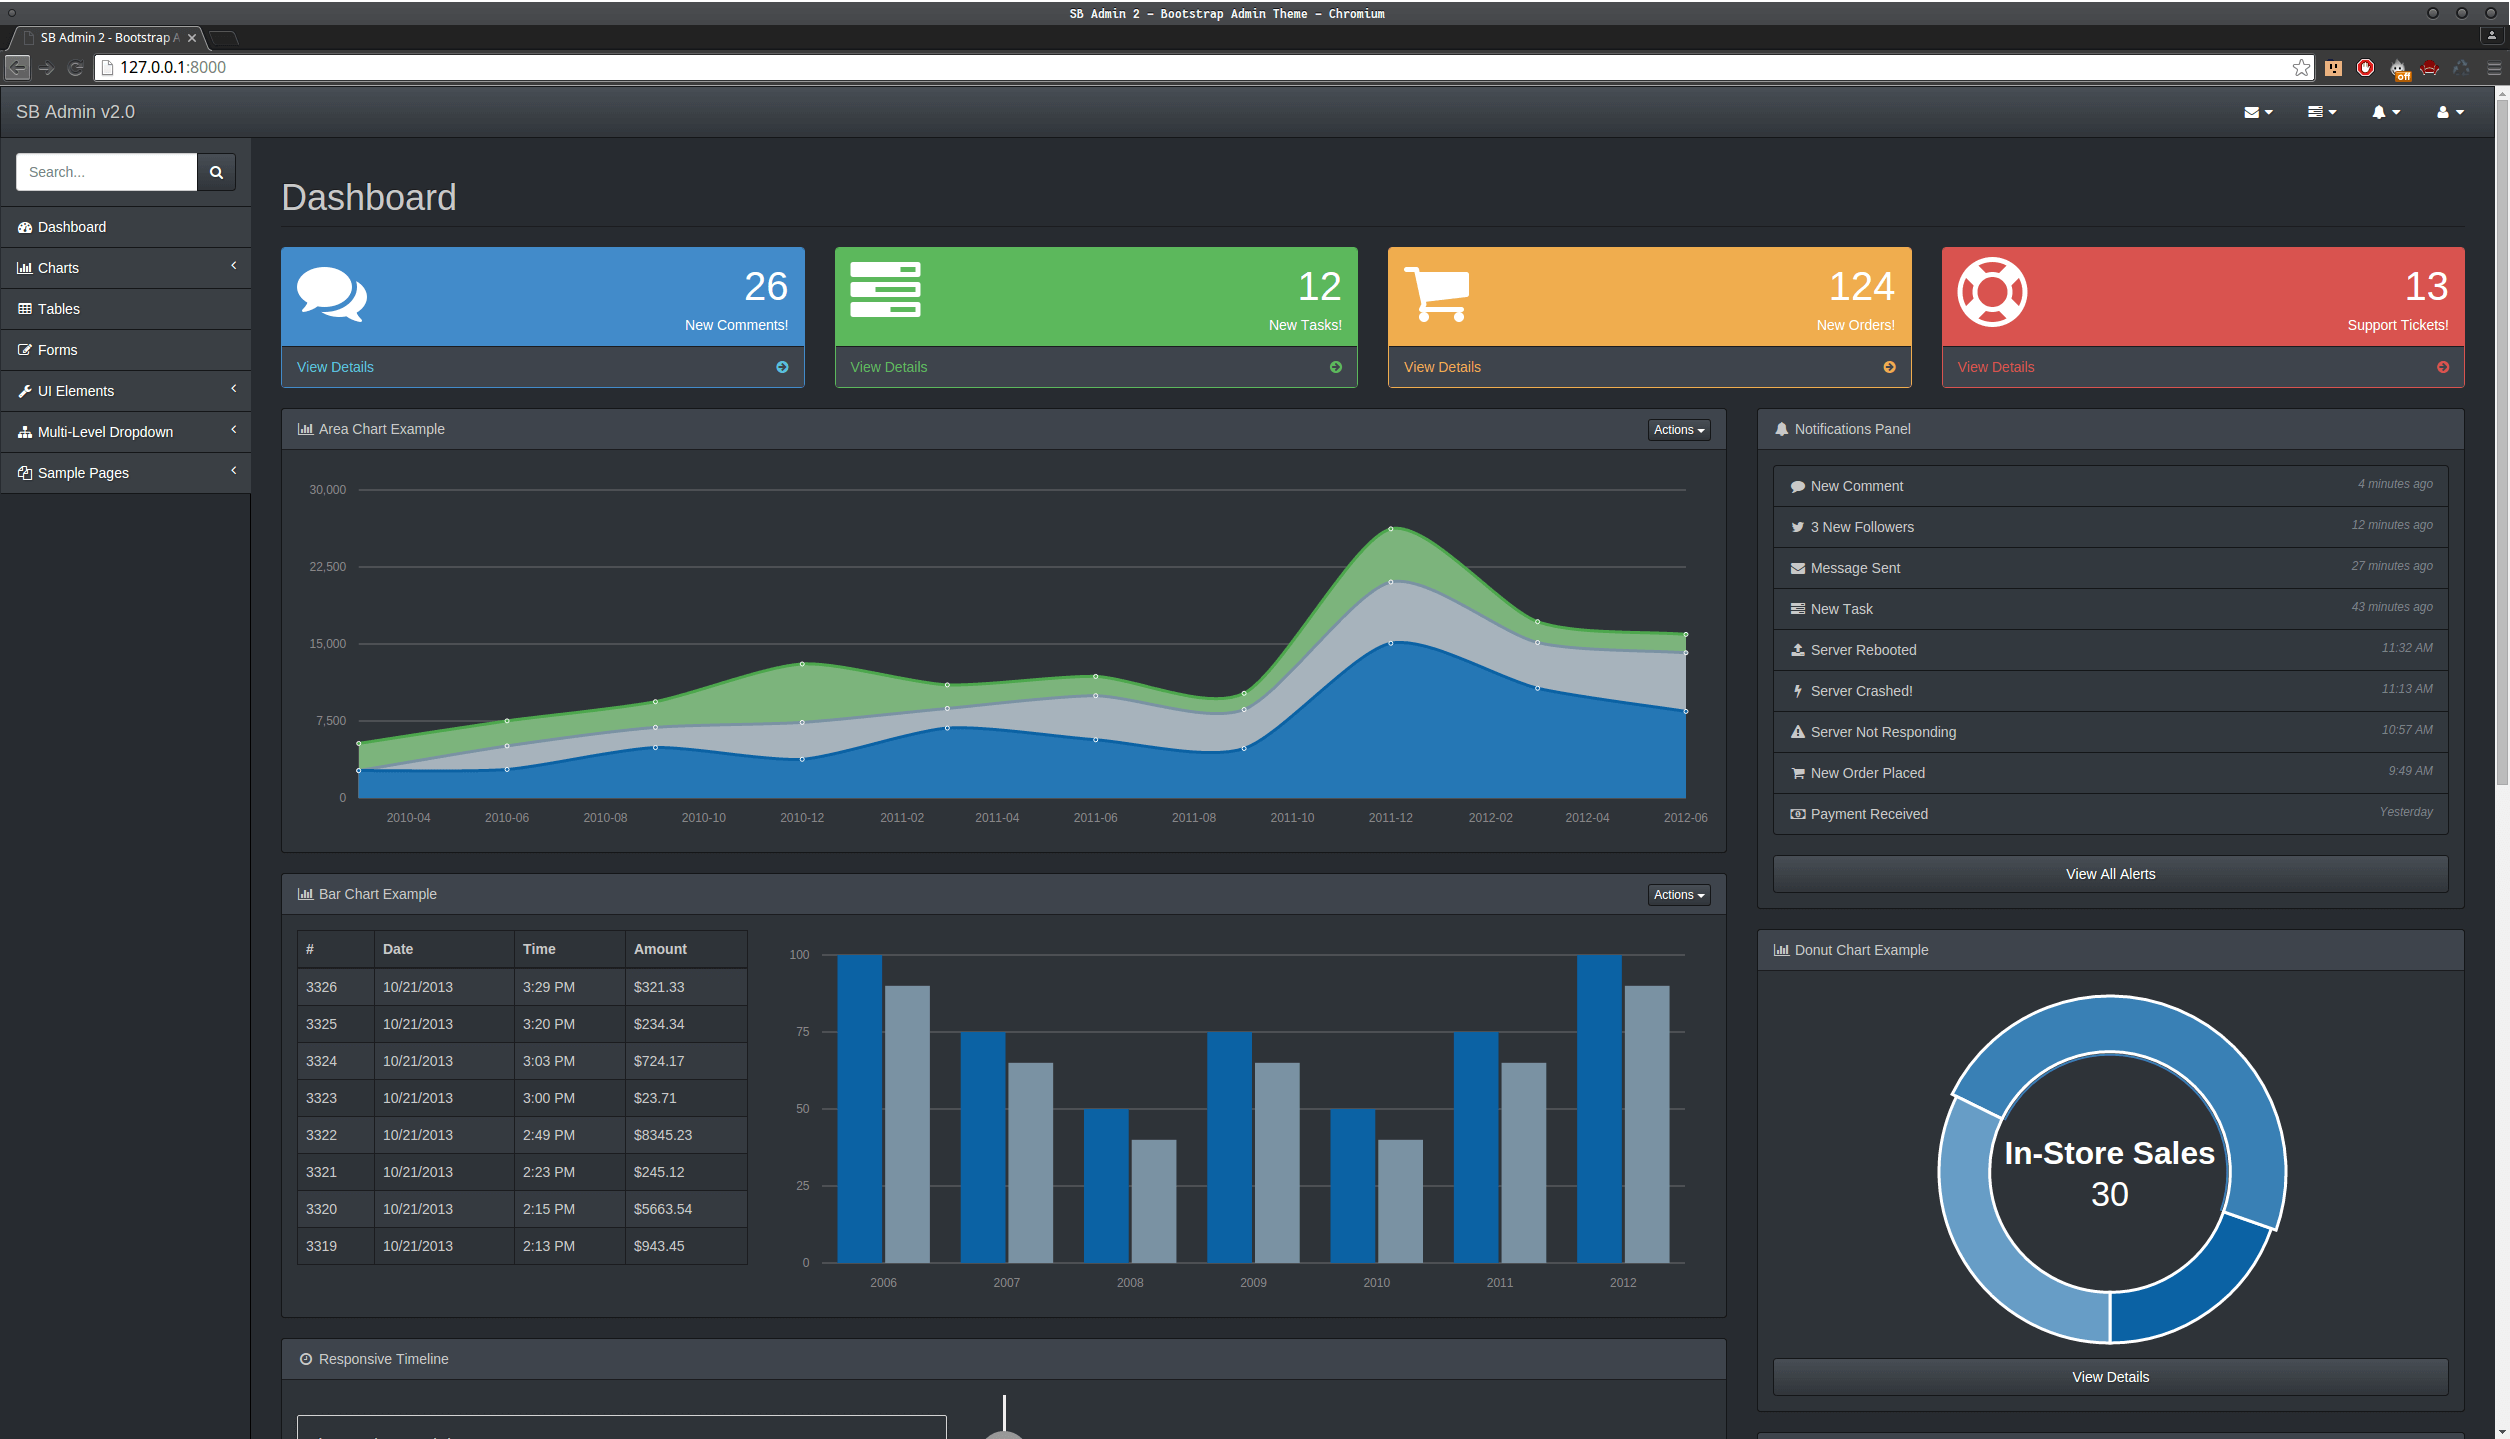
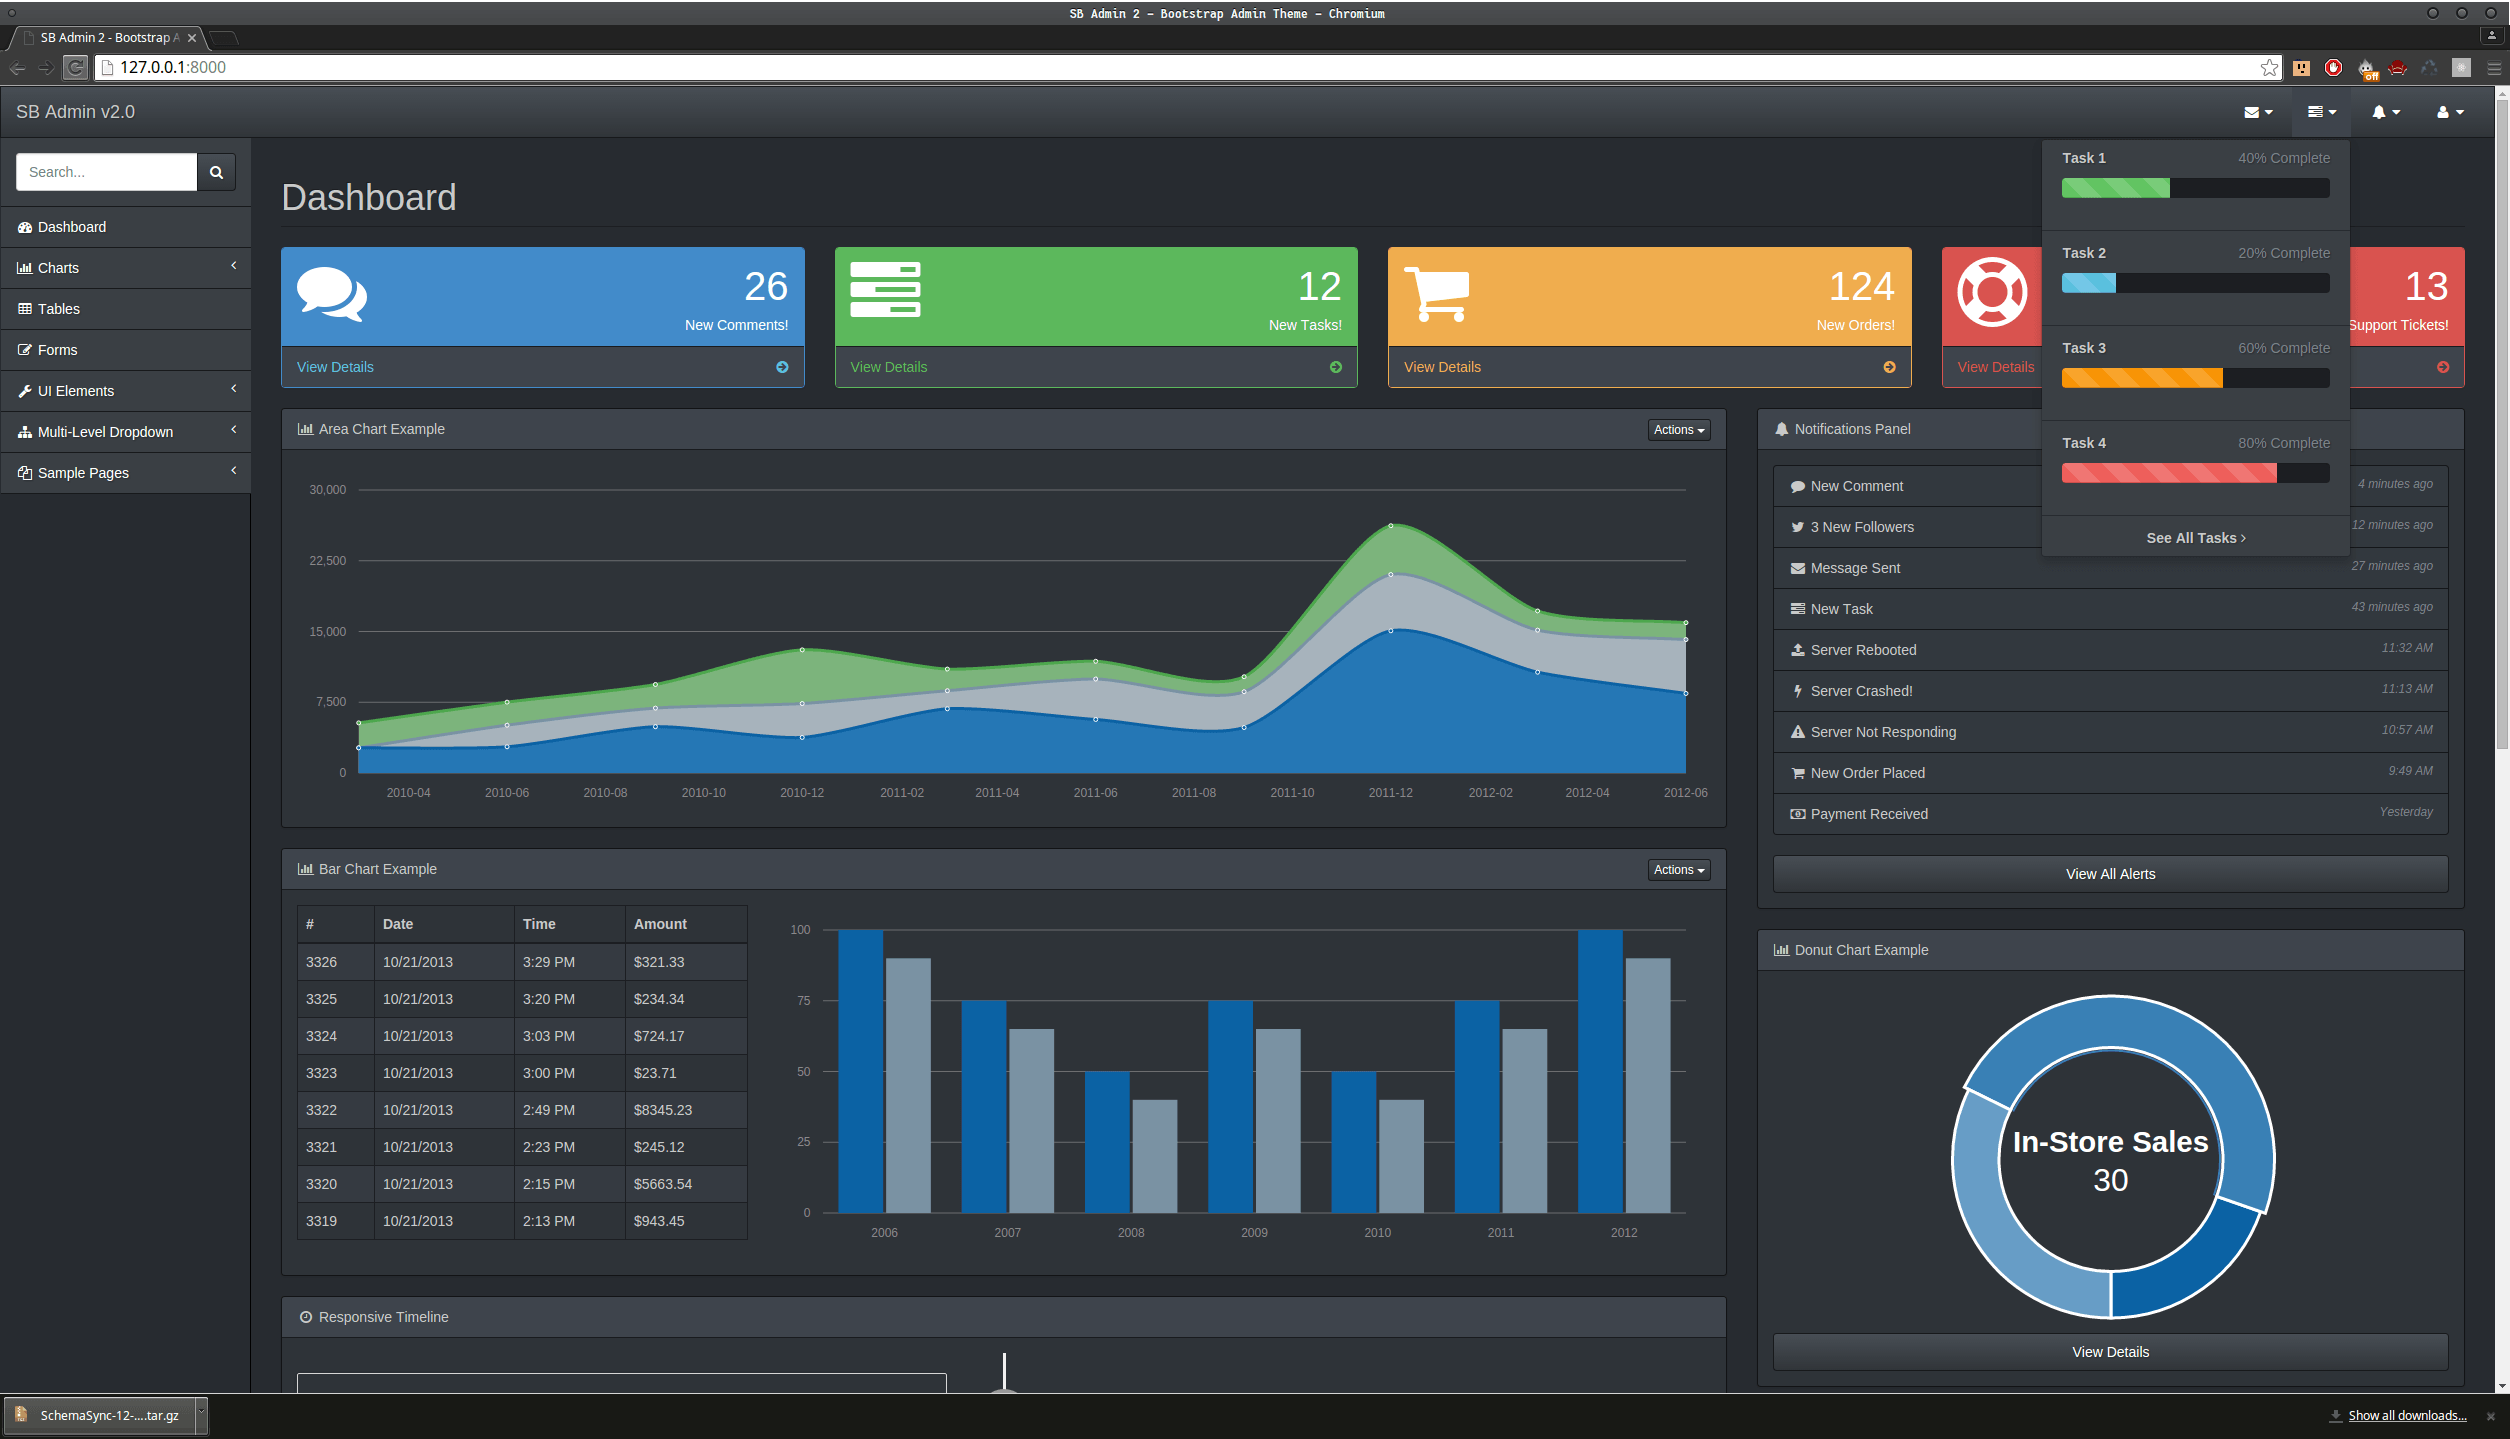
Update README.md and screenshot

diff --git a/README.md b/README.md
@@ -1,13 +1,19 @@
 # django-sb-admin2-dark
 
 ## Demo
-![](https://raw.githubusercontent.com/patriz/django-sb-admin2-dark/master/screenshot.png) 
+![](https://raw.githubusercontent.com/patriz/django-sb-admin2-dark/master/screenshot.png)
 
-## Installation
+## Prerequiests
 
 Install virtualenvwrapper for Python 3.4 on Ubuntu
 
 	sudo apt-get install python3.4-venv
+
+## Installation
+
+Clone a repo
+
+	git clone https://github.com/patriz/django-sb-admin2-dark.git && cd django-sb-admin2-dark
 
 Create a virtualenv with virtualenvwrapper
 
@@ -22,13 +28,11 @@ Install required modules
 	pip install -r requirements.txt
 
 Install bower's components (react-bootstrap, sb-admin2 and etc)
-	
+
 	./manage.py bower install
 
-## Running
+## Run
 
 Run server
 
 	./manage.py runserver
-
-
